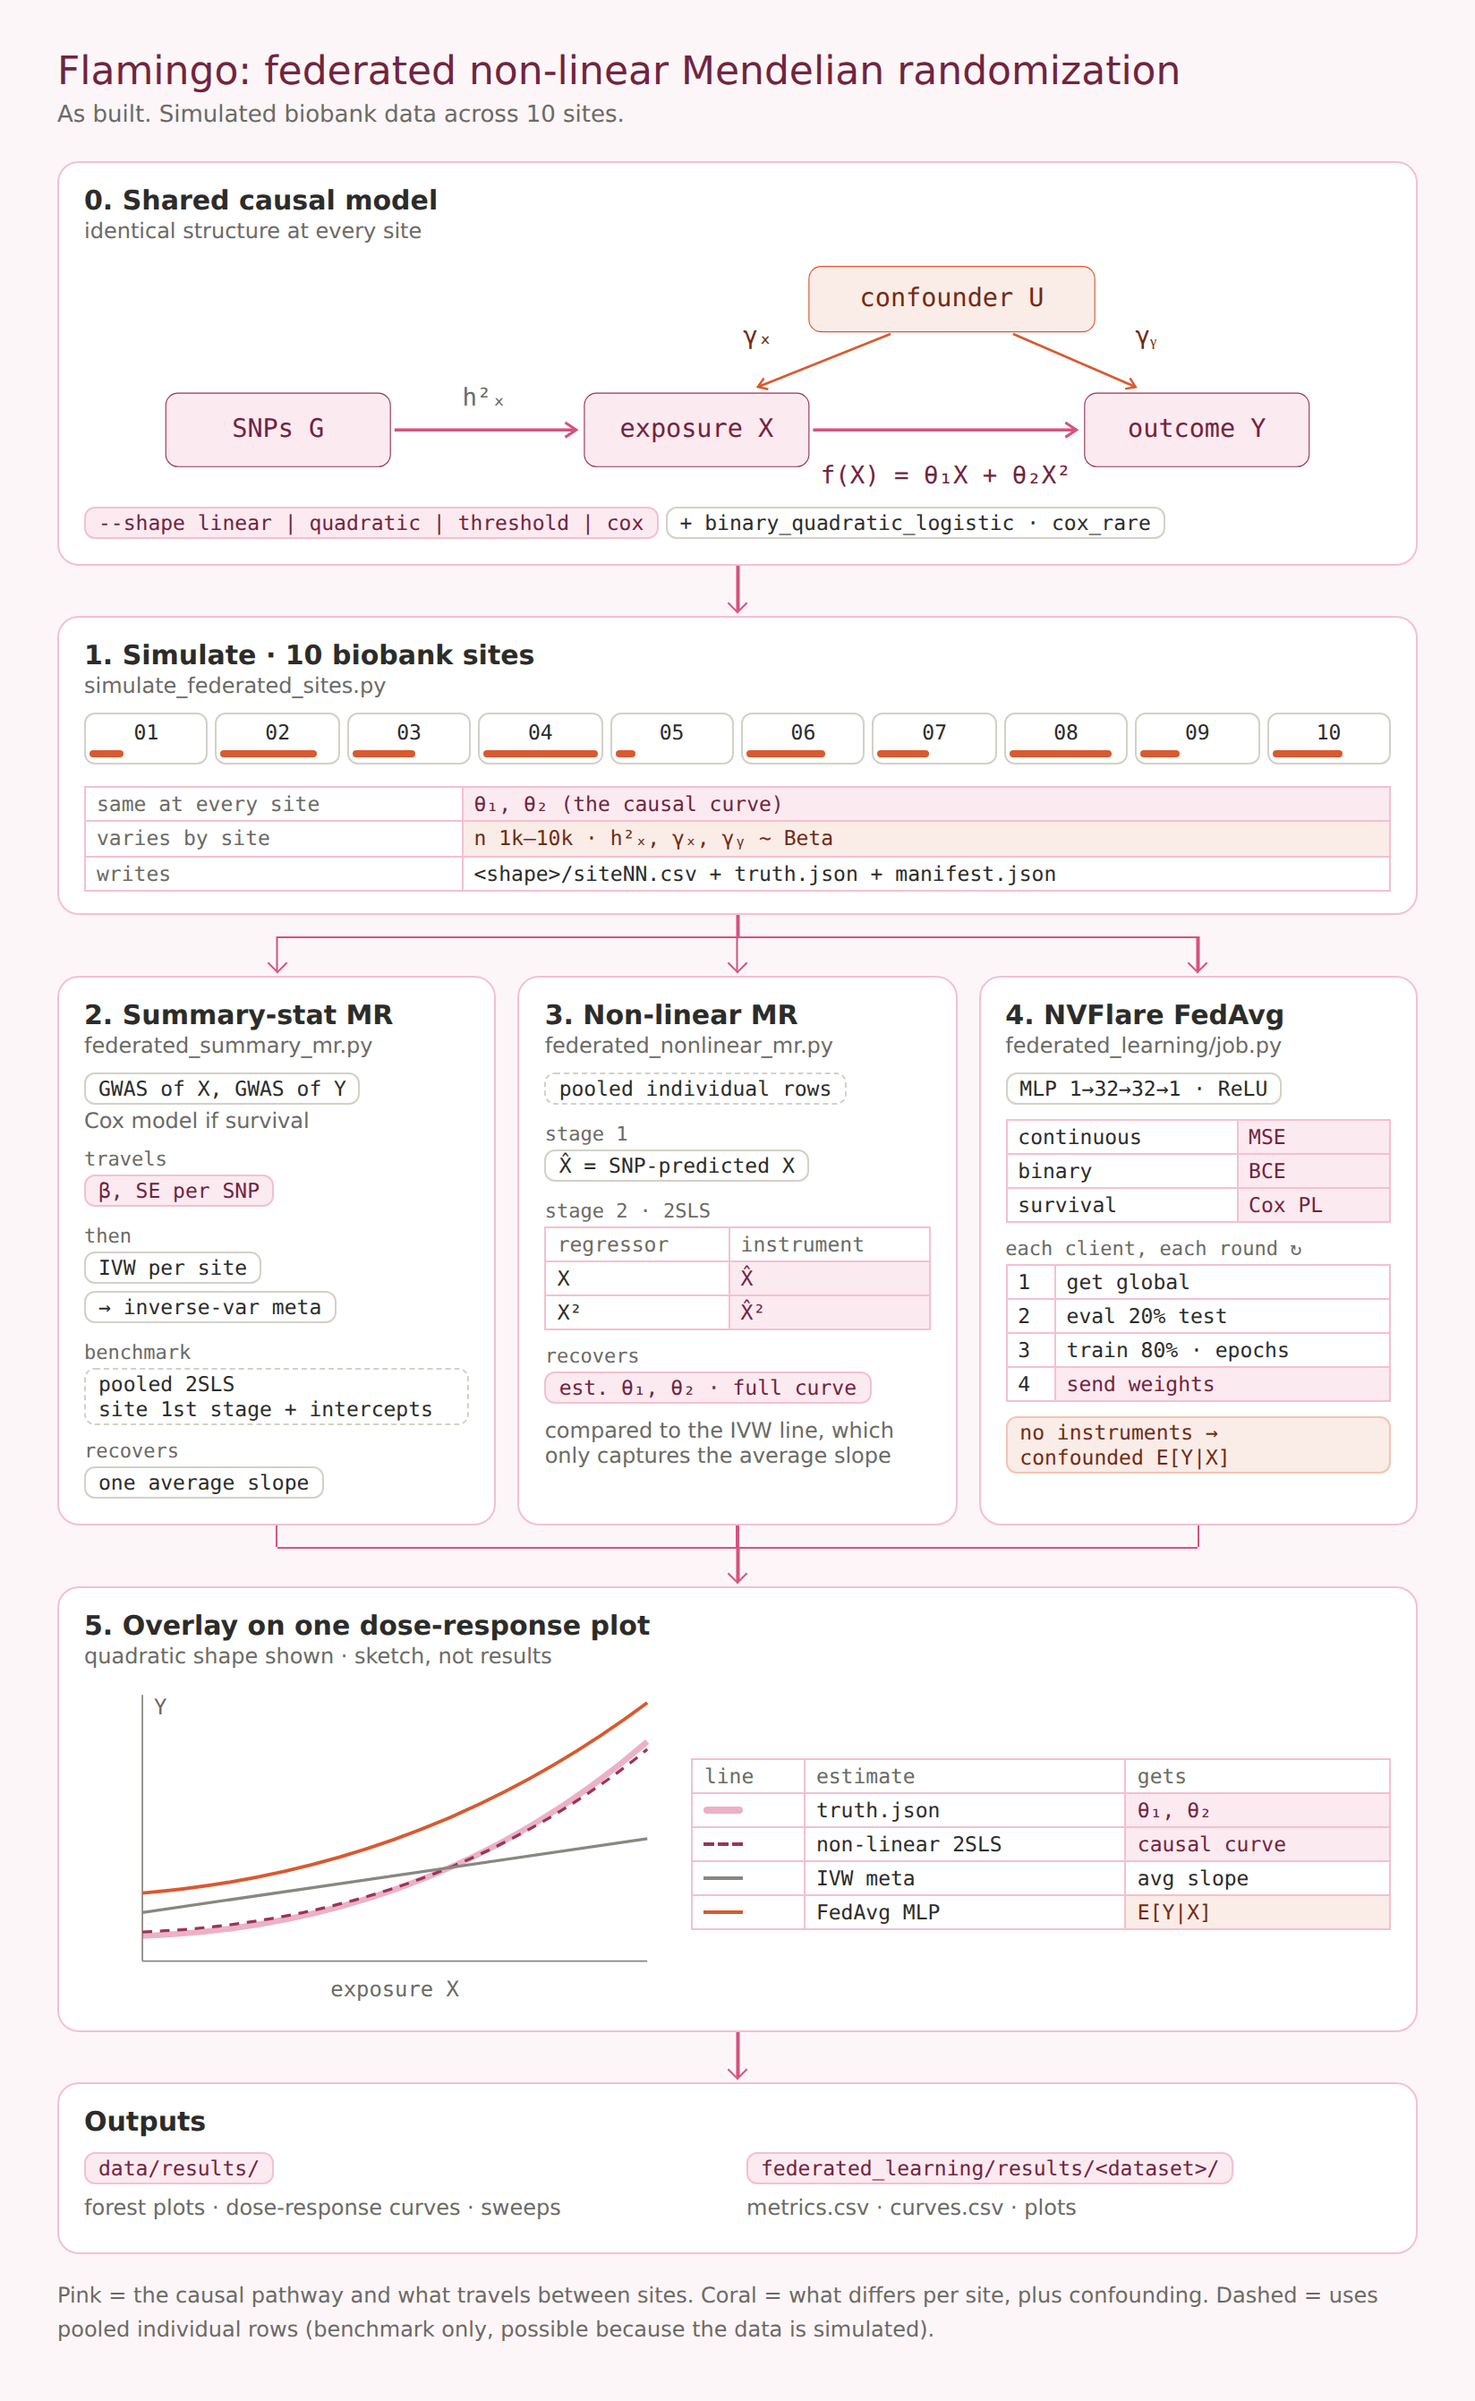
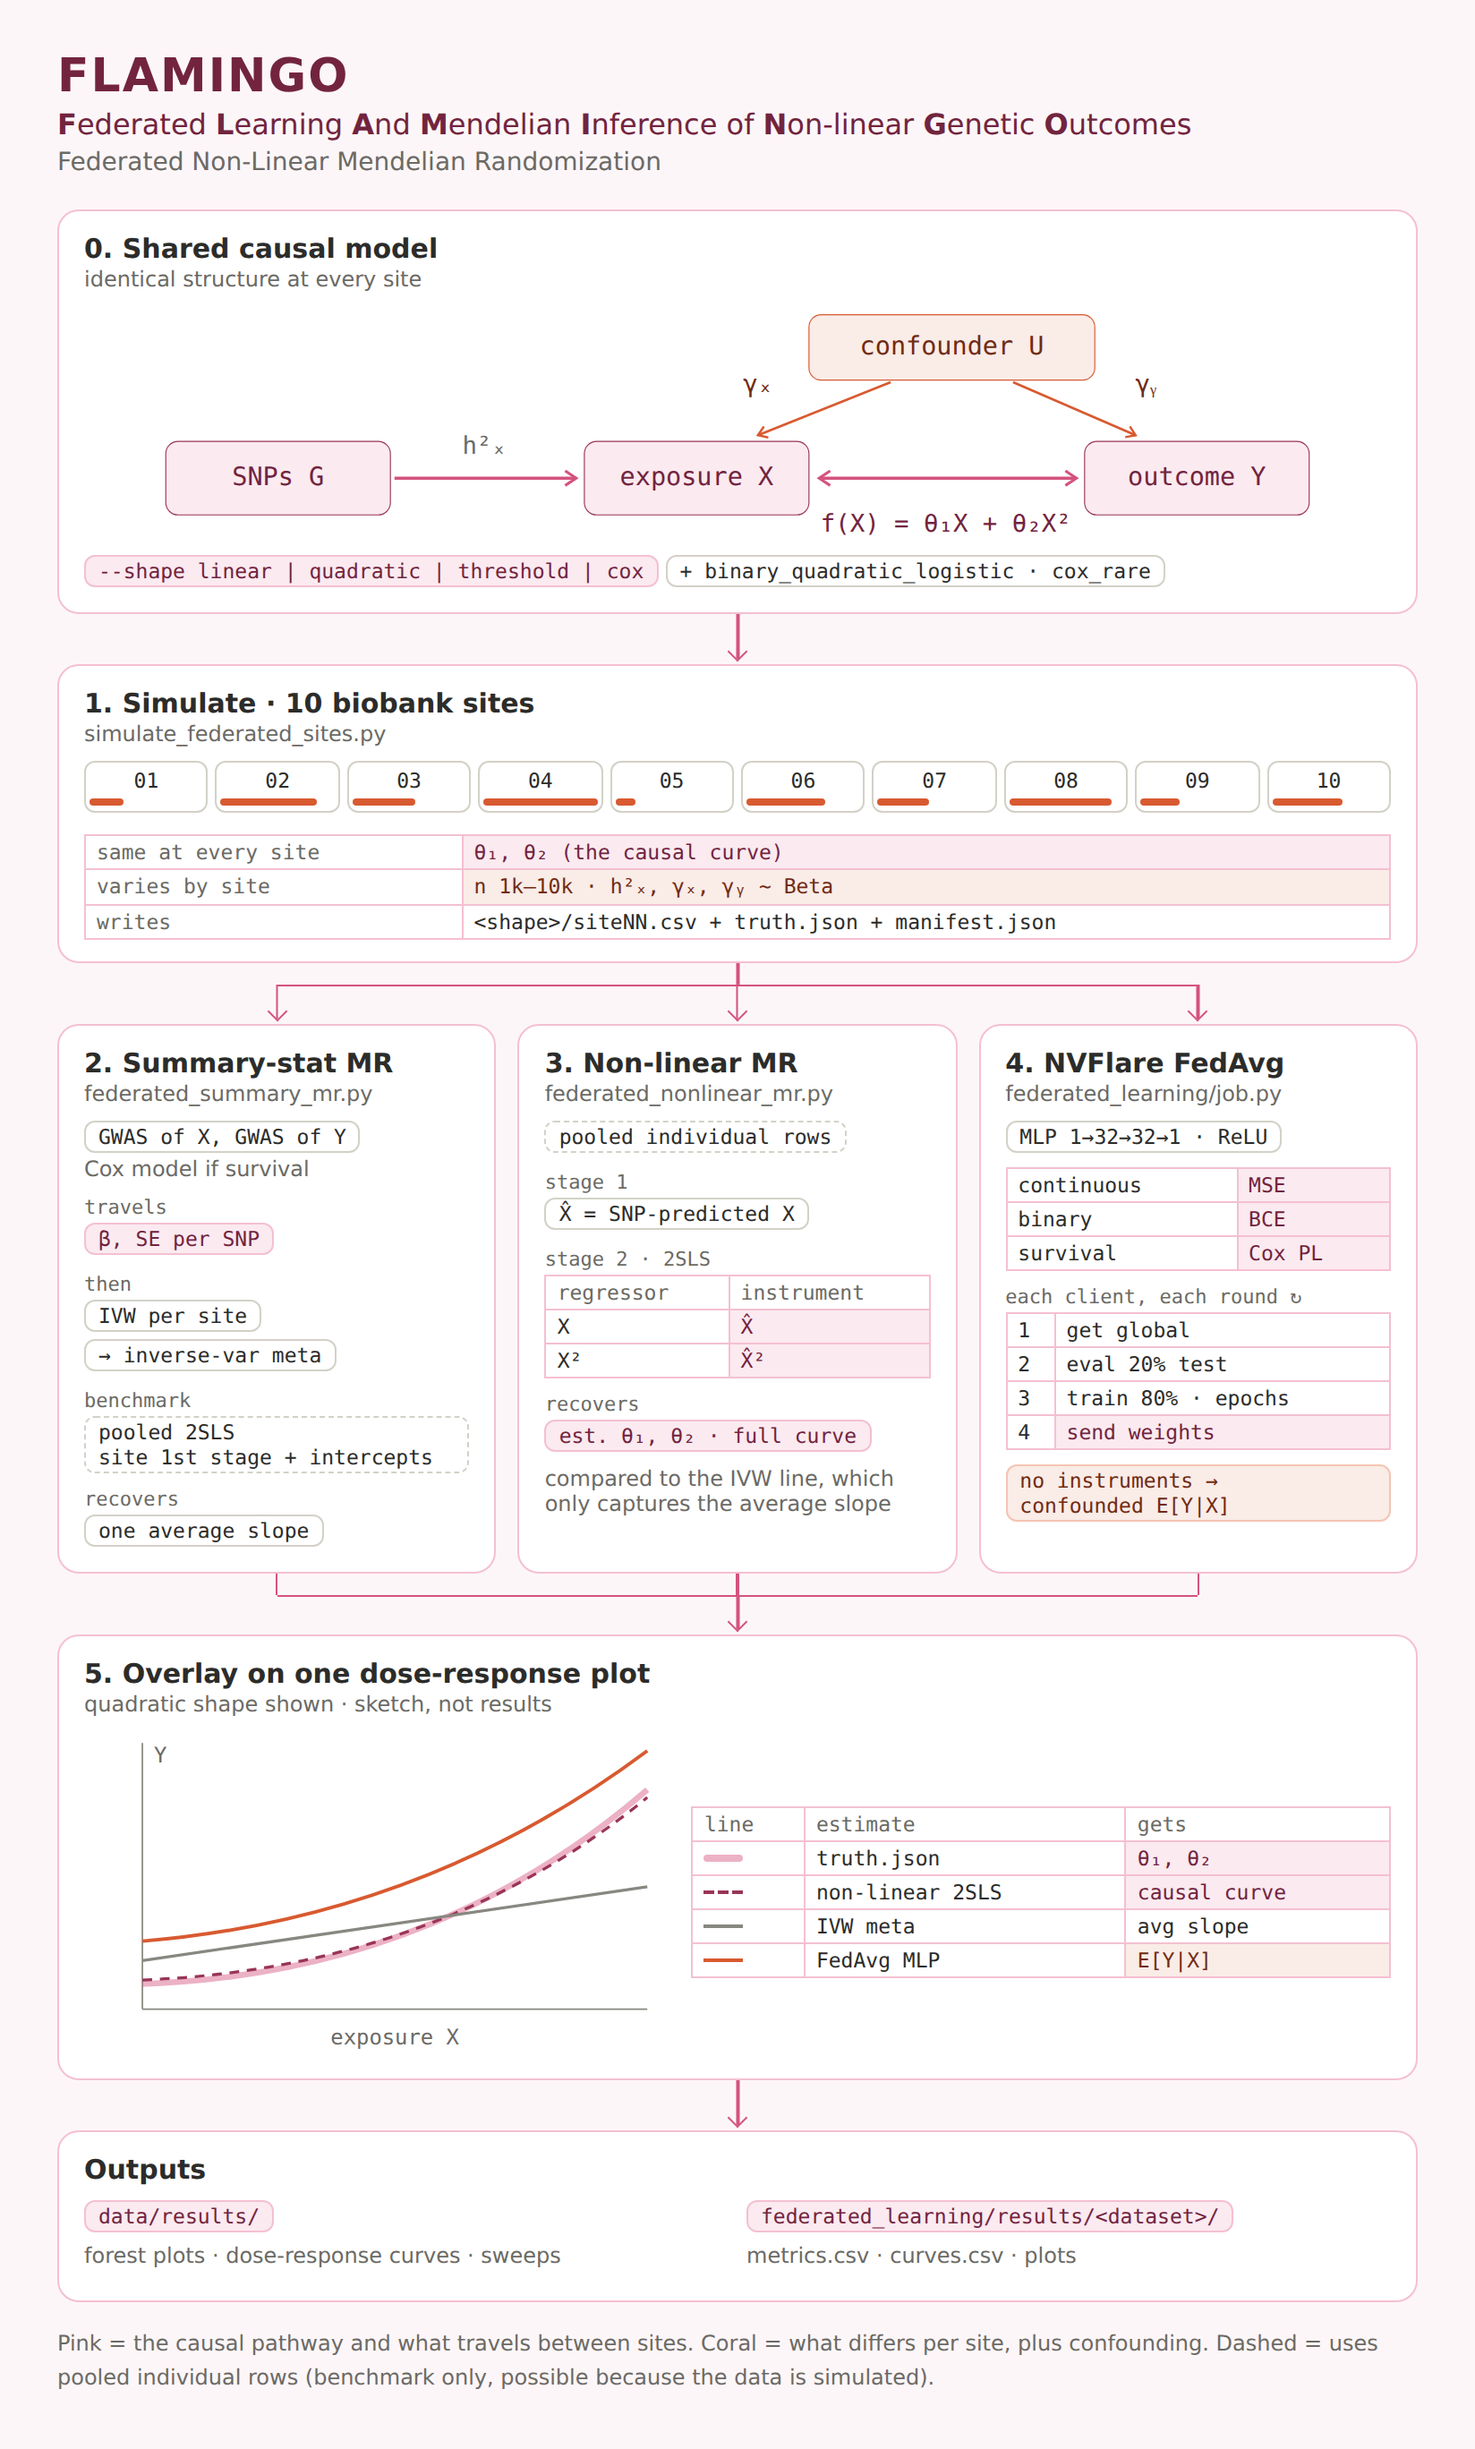
updating flowchart

diff --git a/README.md b/README.md
@@ -1,5 +1,4 @@
-# FLAMINGO - **F**ederated **L**earning **A**nd **M**endelian **I**nference of **N**on-linear **G**enetic **O**utcomes
-
+# FLAMINGO - Federated Non-Linear Mendelian Randomization
 # Purpose
 
 The purpose of this work is to demonstrate the utility of federated learning for non-linear mendelian randomization. Here we created our own synthetic dataset to simulate learning across bio-banks and compare it with conventional MR.
